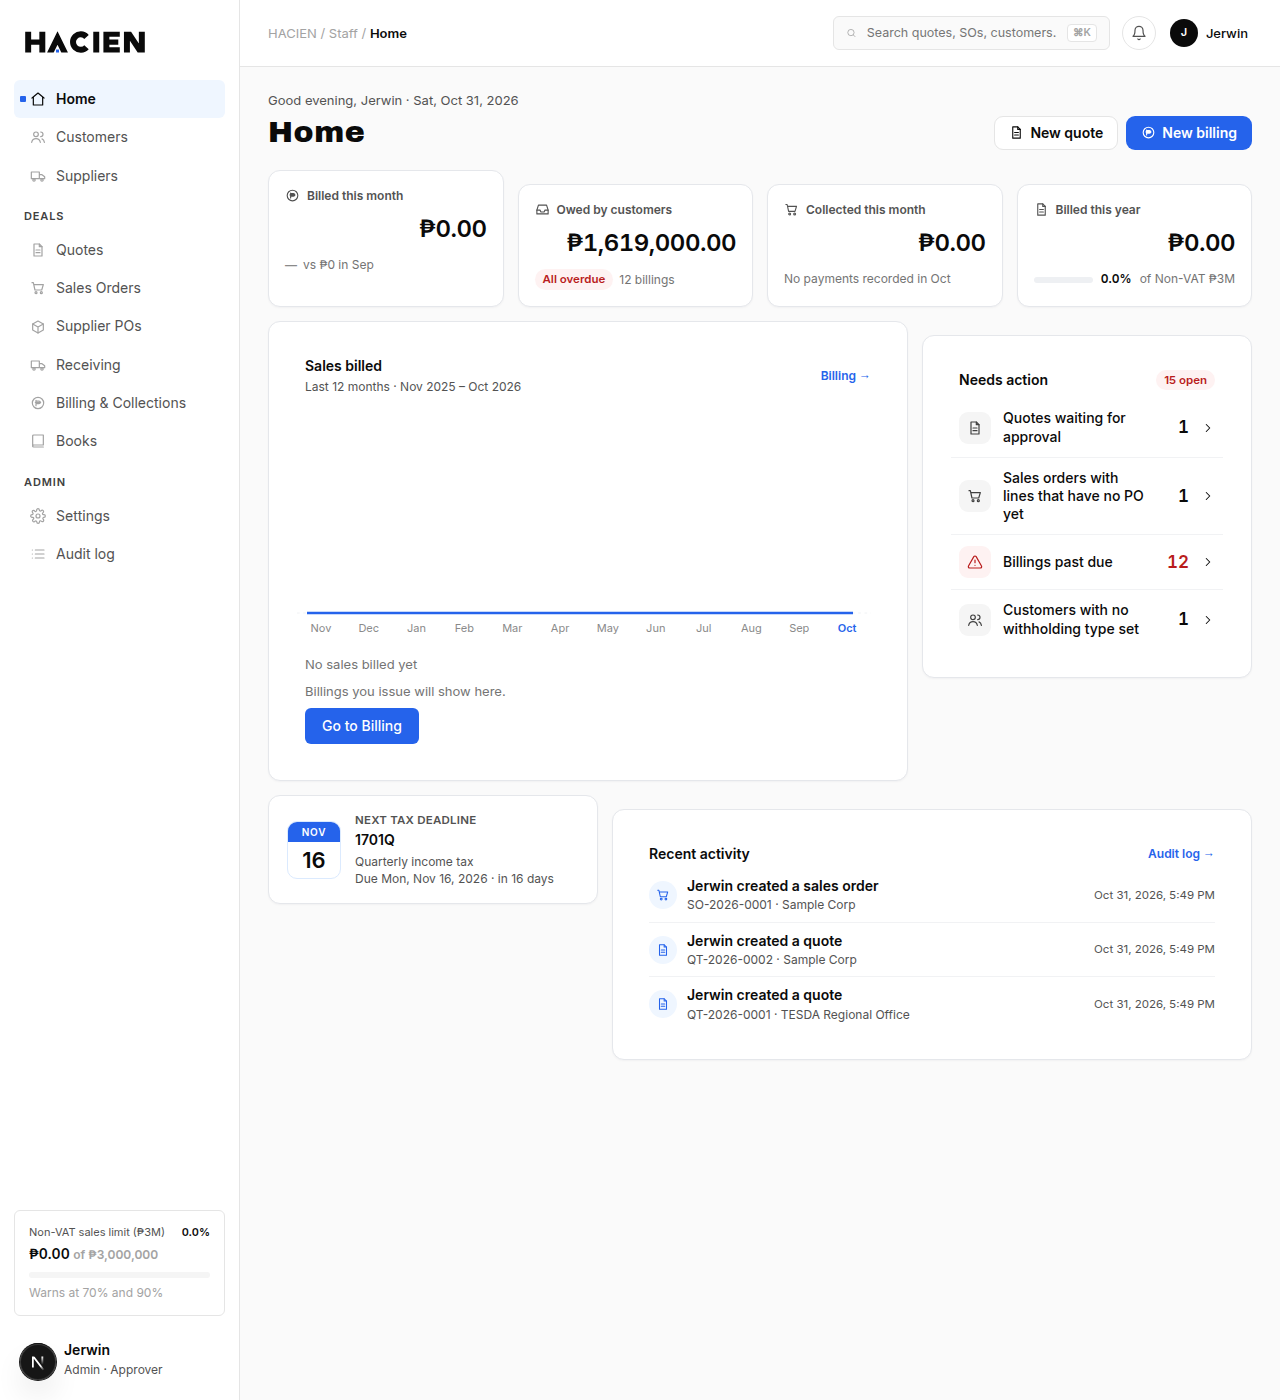
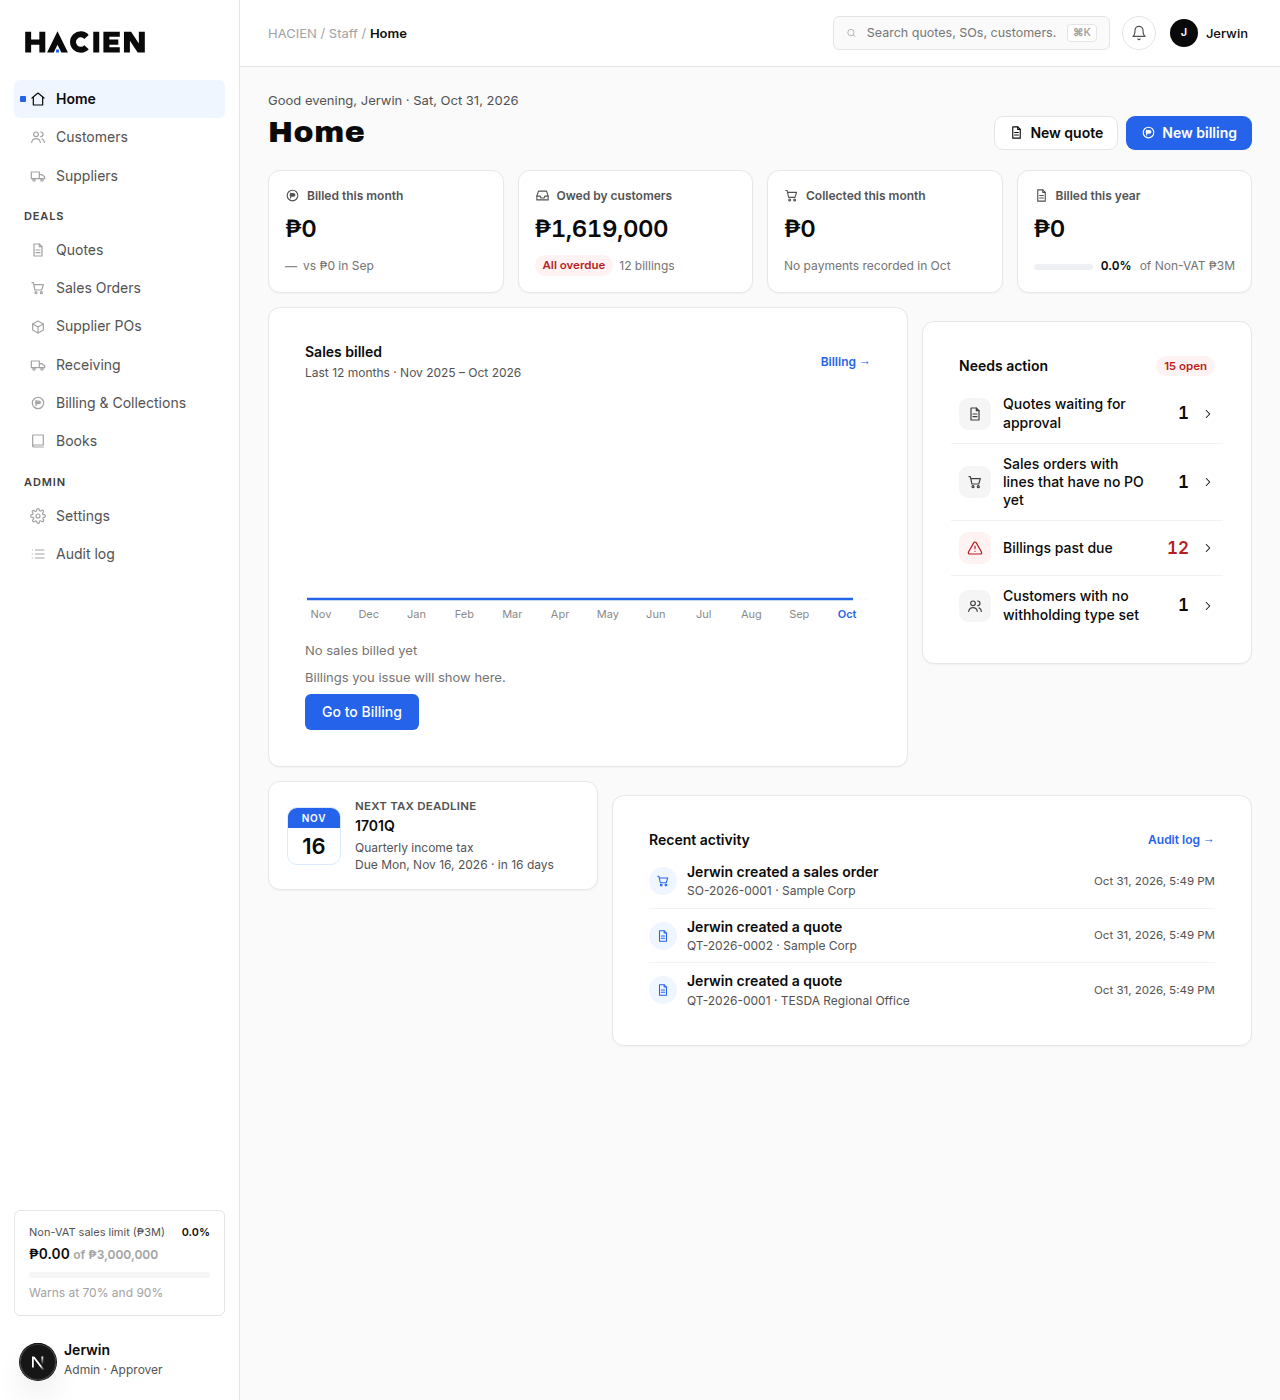
fix(home): even KPI row, left-align amounts, whole pesos
Defeat card+card margin so all four KPI cards share one top and height,
left-align amounts/chips/subtext, and format Home KPI + chart tip as whole
pesos (sidebar meter and elsewhere keep centavos). Slightly smaller KPI
type at 360 so 2-up cards fit without wrapping.

diff --git a/src/components/home/HomeSections.tsx b/src/components/home/HomeSections.tsx
@@ -1,7 +1,7 @@
 // Presentational Home sections (server components) — concept A card layout.
 
 import Link from "next/link";
-import { formatPeso, formatPesoLimit } from "@/lib/format";
+import { formatPeso, formatPesoLimit, formatPesoWhole } from "@/lib/format";
 import { formatHomeActionCount } from "@/lib/home/actionCount";
 import type { HomeDashboard, HomeKpis } from "@/lib/home/dashboard";
 import type { HomeSales } from "@/lib/home/sales";
@@ -74,7 +74,7 @@ export function HomeKpiCards({ kpis }: { kpis: HomeKpis }) {
           <CoinIcon size={15} />
           Billed this month
         </div>
-        <div className="home-kv num">{formatPeso(kpis.billedThisMonth.amount)}</div>
+        <div className="home-kv num">{formatPesoWhole(kpis.billedThisMonth.amount)}</div>
         <div className="home-ks">
           <ChangeChip change={kpis.billedThisMonth.change} />
           <span>{kpis.billedThisMonth.vsCaption}</span>
@@ -86,7 +86,7 @@ export function HomeKpiCards({ kpis }: { kpis: HomeKpis }) {
           <InboxIcon size={15} />
           Owed by customers
         </div>
-        <div className="home-kv num">{formatPeso(kpis.owedByCustomers.amount)}</div>
+        <div className="home-kv num">{formatPesoWhole(kpis.owedByCustomers.amount)}</div>
         <div className="home-ks">
           {kpis.owedByCustomers.overdueChip ? (
             <span className="home-chip home-chip-overdue">{kpis.owedByCustomers.overdueChip.label}</span>
@@ -100,7 +100,7 @@ export function HomeKpiCards({ kpis }: { kpis: HomeKpis }) {
           <CartIcon size={15} />
           Collected this month
         </div>
-        <div className="home-kv num">{formatPeso(kpis.collectedThisMonth.amount)}</div>
+        <div className="home-kv num">{formatPesoWhole(kpis.collectedThisMonth.amount)}</div>
         <div className="home-ks">{kpis.collectedThisMonth.caption}</div>
       </div>
 
@@ -109,7 +109,7 @@ export function HomeKpiCards({ kpis }: { kpis: HomeKpis }) {
           <FileIcon size={15} />
           Billed this year
         </div>
-        <div className="home-kv num">{formatPeso(kpis.billedThisYear.amount)}</div>
+        <div className="home-kv num">{formatPesoWhole(kpis.billedThisYear.amount)}</div>
         <div className="home-ks home-ks-bar">
           <span className="home-mini-bar" aria-hidden>
             <i style={{ width: `${Math.min(100, Math.max(0, kpis.billedThisYear.barPct))}%` }} />

diff --git a/tests/validation.test.ts b/tests/validation.test.ts
@@ -4,7 +4,7 @@ import { contactSchema, customerSchema, missingBankDetails, supplierSchema } fro
 import { CANT_DEACTIVATE_MAIN, deactivateContactError, makeMainError, makeMainPlan, newContactIsMain } from "@/lib/contacts";
 import { auditDiff } from "@/lib/audit";
 import { isRateLimited, MAX_FAILED_LOGINS } from "@/lib/auth/rate-limit";
-import { formatDate, formatPeso, formatPesoLimit } from "@/lib/format";
+import { formatDate, formatPeso, formatPesoLimit, formatPesoWhole } from "@/lib/format";
 import { itemSchema } from "@/lib/validation/quotes";
 import {
   WITHHOLDING_PERCENT_NON_NUMERIC_ERROR,
@@ -139,6 +139,17 @@ describe("formatting", () => {
     expect(formatPesoLimit(0)).toBe("₱0");
     expect(formatPesoLimit(1234.56)).toBe("₱1,234.56");
     expect(formatPesoLimit(-50)).toBe("-₱50");
+  });
+
+  it("rounds Home KPI / chart tip amounts to whole pesos", () => {
+    expect(formatPesoWhole(274_000)).toBe("₱274,000");
+    expect(formatPesoWhole("274000.00")).toBe("₱274,000");
+    expect(formatPesoWhole(274_000.4)).toBe("₱274,000");
+    expect(formatPesoWhole(274_000.5)).toBe("₱274,001");
+    expect(formatPesoWhole(0)).toBe("₱0");
+    expect(formatPesoWhole(-50.25)).toBe("-₱50");
+    // Exact cents stay on formatPeso elsewhere (sidebar meter, lists).
+    expect(formatPeso(274_000)).toBe("₱274,000.00");
   });
 
   it("shows dates in Asia/Manila", () => {

diff --git a/src/app/globals.css b/src/app/globals.css
@@ -4121,9 +4121,22 @@ button.contact-card-add {
   display: grid;
   grid-template-columns: repeat(4, minmax(0, 1fr));
   gap: 14px;
+  align-items: stretch;
+}
+/* Defeat global `.card + .card { margin-top }` so all four share one top + height. */
+.home-kps > .card,
+.home-kps > .home-kp {
+  margin-top: 0;
+  height: 100%;
+  align-self: stretch;
+  box-sizing: border-box;
 }
 .home-kp {
+  display: flex;
+  flex-direction: column;
+  align-items: stretch;
   padding: 16px;
+  text-align: left;
 }
 .home-kl {
   display: flex;
@@ -4132,6 +4145,7 @@ button.contact-card-add {
   color: #525252;
   font-weight: 600;
   font-size: 12px;
+  text-align: left;
 }
 .home-kv {
   font-size: 24px;
@@ -4139,15 +4153,23 @@ button.contact-card-add {
   letter-spacing: -0.02em;
   margin: 8px 0;
   font-variant-numeric: tabular-nums;
+  text-align: left;
+  white-space: nowrap;
+}
+.home-kv.num {
+  text-align: left;
 }
 .home-ks {
   font-size: 12px;
   color: #737373;
   display: flex;
   align-items: center;
+  justify-content: flex-start;
   gap: 6px;
   min-height: 20px;
   flex-wrap: wrap;
+  text-align: left;
+  margin-top: auto;
 }
 .home-ks-bar {
   gap: 8px;
@@ -4607,7 +4629,7 @@ button.contact-card-add {
     gap: 10px;
   }
   .home-kv {
-    font-size: 19px;
+    font-size: 17px;
   }
   .home-kp {
     padding: 12px;

diff --git a/tests/home-sales.test.ts b/tests/home-sales.test.ts
@@ -247,6 +247,18 @@ describe("home concept A layout wiring", () => {
     expect(css).toMatch(/home-sales-line/);
   });
 
+  it("keeps KPI cards equal height, left-aligned, and whole-peso amounts", () => {
+    expect(css).toMatch(/\.home-kps\s*\{[^}]*align-items:\s*stretch/s);
+    expect(css).toMatch(/\.home-kps\s*>\s*\.card[^}]*margin-top:\s*0/s);
+    expect(css).toMatch(/\.home-kv(?:\.num)?\s*\{[^}]*text-align:\s*left/s);
+    expect(sections).toMatch(/formatPesoWhole\(kpis\.billedThisMonth\.amount\)/);
+    expect(sections).toMatch(/formatPesoWhole\(kpis\.owedByCustomers\.amount\)/);
+    expect(sections).toMatch(/formatPesoWhole\(kpis\.collectedThisMonth\.amount\)/);
+    expect(sections).toMatch(/formatPesoWhole\(kpis\.billedThisYear\.amount\)/);
+    const chartSrc = readFileSync(path.join(root, "src/components/home/SalesChart.tsx"), "utf8");
+    expect(chartSrc).toMatch(/formatPesoWhole\(current\.month\.amount\)/);
+  });
+
   it("staff layout omits sales KPIs/chart and stays full-width without holes", () => {
     expect(page).toMatch(/is-staff/);
     expect(page).toMatch(/home-mid-full|is-staff/);

diff --git a/src/lib/format.ts b/src/lib/format.ts
@@ -33,6 +33,17 @@ export function formatPesoLimit(amount: number | string | { toString(): string }
   return formatPeso(amount);
 }
 
+/**
+ * Always whole pesos (no centavos), e.g. ₱274,000. Used on Home KPI cards and
+ * the Sales chart tooltip; elsewhere keep {@link formatPeso} with cents.
+ */
+export function formatPesoWhole(amount: number | string | { toString(): string }): string {
+  const n = typeof amount === "number" ? amount : Number(amount.toString());
+  if (!Number.isFinite(n)) return "₱0";
+  const sign = n < 0 ? "-" : "";
+  return `${sign}₱${pesoWholeFormatter.format(Math.round(Math.abs(n)))}`;
+}
+
 const dateFormatter = new Intl.DateTimeFormat("en-US", {
   timeZone: TIME_ZONE,
   year: "numeric",

diff --git a/src/components/home/SalesChart.tsx b/src/components/home/SalesChart.tsx
@@ -1,7 +1,7 @@
 "use client";
 
 import { useId, useLayoutEffect, useMemo, useRef, useState } from "react";
-import { formatPeso } from "@/lib/format";
+import { formatPesoWhole } from "@/lib/format";
 import { formatSalesAxisPeso, type HomeSalesMonth } from "@/lib/home/sales";
 
 /** Left gutter for axis labels on screen (px); tight when axis is hidden. */
@@ -197,7 +197,7 @@ export function SalesChart({
             <span>
               {current.month.shortLabel} {current.month.key.slice(0, 4)}
             </span>
-            <b className="num">{formatPeso(current.month.amount)}</b>
+            <b className="num">{formatPesoWhole(current.month.amount)}</b>
           </div>
         ) : null}
       </div>
